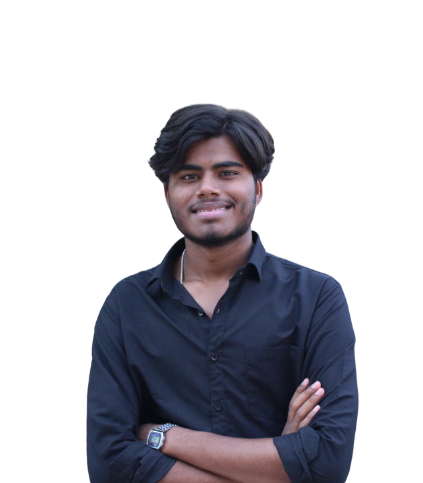
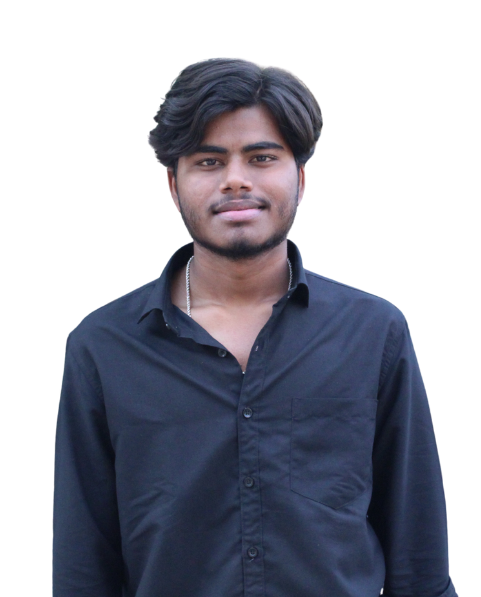
Update team member image and conditionally hide reward section in event modal

diff --git a/estralis/src/components/Schedule.jsx b/estralis/src/components/Schedule.jsx
@@ -693,7 +693,7 @@ export function EventModal({ event, isEventOpen, onClose, onRegister, overrideTh
                   </div>
 
                   {/* Minimalist Info Grid */}
-                  <div className="grid grid-cols-1 sm:grid-cols-2 lg:grid-cols-4 gap-12 pt-8">
+                  <div className={`grid grid-cols-1 sm:grid-cols-2 ${event.prize ? 'lg:grid-cols-4' : 'lg:grid-cols-3'} gap-12 pt-8`}>
                     <div className="space-y-3">
                       <p className="text-[10px] font-black tracking-[0.4em] text-white/20 uppercase">Schedule</p>
                       <p className={`text-xl font-bold text-white uppercase tracking-tight`}>
@@ -708,10 +708,12 @@ export function EventModal({ event, isEventOpen, onClose, onRegister, overrideTh
                       <p className="text-[10px] font-black tracking-[0.4em] text-white/20 uppercase">Venue</p>
                       <p className="text-xl font-bold text-white uppercase tracking-tight">@{event.location}</p>
                     </div>
-                    <div className="space-y-3">
-                      <p className="text-[10px] font-black tracking-[0.4em] text-white/20 uppercase">Reward</p>
-                      <p className={`text-xl font-bold ${theme.text} uppercase tracking-tight`}>{event.prize || "Recognition"}</p>
-                    </div>
+                    {event.prize && (
+                      <div className="space-y-3">
+                        <p className="text-[10px] font-black tracking-[0.4em] text-white/20 uppercase">Reward</p>
+                        <p className={`text-xl font-bold ${theme.text} uppercase tracking-tight`}>{event.prize}</p>
+                      </div>
+                    )}
                   </div>
 
                   <div className="pt-12 border-t border-white/5 flex flex-col sm:flex-row gap-8 items-center justify-between">

diff --git a/estralis/src/components/Team.jsx b/estralis/src/components/Team.jsx
@@ -13,7 +13,7 @@ const TEAM_MEMBERS = [
   { name: "THANISHA", role: "FINANCE / SPONSORSHIP HEAD", image: "/thanisha.png" },
   { name: "VINITH JOYAPPA", role: "FINANCE / SPONSORSHIP HEAD", image: "/vineeth.png" },
   { name: "LIKITH D T", role: "MARKETING HEAD", image: "/likith.png" },
-  { name: "MALLIKARJUN GOUDA", role: "MARKETING HEAD", image: "/malli.png" },
+  { name: "MALLIKARJUN GOUDA", role: "MARKETING HEAD", image: "/mallii.png" },
 
   // THIRD ROW & OTHERS
   { name: "SURESH PATIL", role: "EVENT HEAD", image: "/special-guest.png" },
